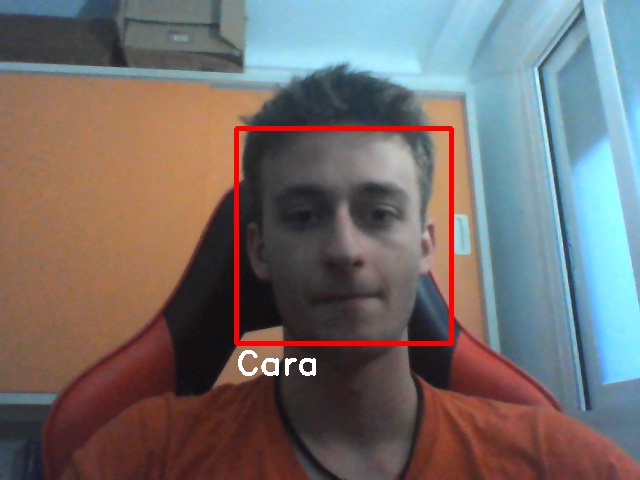
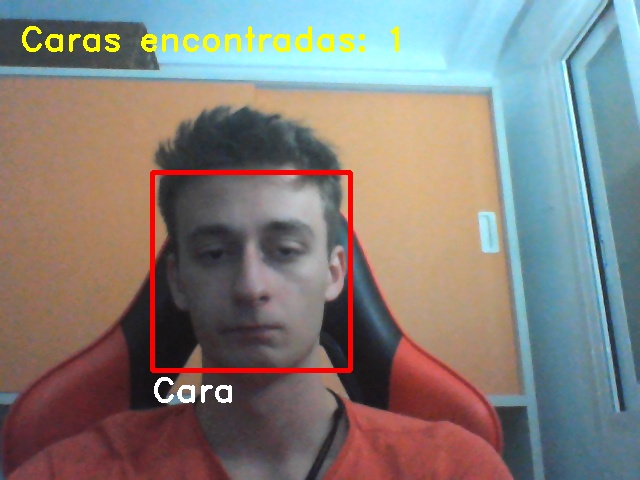
Deteccion de caras sacado

diff --git a/Vision/src/OpenCV/DeteccionCara.java b/Vision/src/OpenCV/DeteccionCara.java
@@ -45,13 +45,14 @@ public class DeteccionCara {
 
 		// Escribir a fichero
 		Rect[] caraArr = caras.toArray();
+		int numeroCaras = 0;
 		for (int i = 0; i < caraArr.length; i++) {
 			// Dibujar
 			Imgproc.rectangle(imagen, caraArr[i], new Scalar(0, 0, 255), 3);
 
 			// Texto al lado del rectangulo
 			String label = "Cara";
-
+			numeroCaras++;
 			// Posicion debajo del rectangulo
 			Point puntoTexto = new Point(caraArr[i].tl().x, caraArr[i].br().y + 30);
 
@@ -59,6 +60,9 @@ public class DeteccionCara {
 			Imgproc.putText(imagen, label, puntoTexto, 2, 1.1, new Scalar(255, 255, 255), 2);
 
 		}
+		String nCaras = "Caras encontradas: " + Integer.toString(numeroCaras);
+		Point puntoTexto = new Point(20, 50);
+		Imgproc.putText(imagen, nCaras, puntoTexto, 2, 1.1, new Scalar(0, 255, 255), 2);
 
 		Imgcodecs.imwrite("detecciones/deteccion.jpg", imagen);
 
@@ -68,6 +72,48 @@ public class DeteccionCara {
 		byte[] datosImagen = buffer.toArray();
 
 		return datosImagen;
+	}
+
+	public static byte[] detecarSoloCara(Mat imagen) {
+		MatOfRect caras = new MatOfRect();
+
+		// Convertir a escala de grises
+		Mat frameGris = new Mat();
+		Imgproc.cvtColor(imagen, frameGris, Imgproc.COLOR_BGR2GRAY);
+
+		// Mejora de contraste para obtener un mejor resultado
+		Imgproc.equalizeHist(frameGris, frameGris);
+
+		int altura = frameGris.height();
+		int tamañoCara = Math.round(altura * 0.2f);
+
+		// Deteccion de caras
+		CascadeClassifier cascadaCara = new CascadeClassifier();
+
+		// Cargar el XML de dataset de caras
+		cascadaCara.load("Datasets/haarcascade_frontalface_alt2.xml");
+		cascadaCara.detectMultiScale(frameGris, caras, 1.1, 2, 0 | Objdetect.CASCADE_SCALE_IMAGE,
+				new Size(tamañoCara, tamañoCara), new Size());
+
+		// Crear una nueva imagen con la posición original de la cara
+		Rect[] caraArr = caras.toArray();
+		final MatOfByte buffer = new MatOfByte();
+
+		for (Rect caraRect : caraArr) {
+			// Crear una nueva imagen para cada cara
+			Mat imagenCara = new Mat(imagen, caraRect);
+
+			// Escribir la nueva imagen a fichero
+			Imgcodecs.imwrite("detecciones/cara_detectada_" + System.currentTimeMillis() + ".jpg", imagenCara);
+
+			// Convertir la nueva imagen a bytes
+			Imgcodecs.imencode(".jpg", imagenCara, buffer);
+
+			// Devolver los datos de la nueva imagen
+
+		}
+
+		return buffer.toArray();
 	}
 
 	public static void main(String[] args) {

diff --git a/Vision/src/OpenCV/Camara.java b/Vision/src/OpenCV/Camara.java
@@ -27,10 +27,10 @@ public class Camara extends JFrame {
 	private static final long serialVersionUID = 1L;
 	// Pantalla de la camara
 	private JLabel pantallaCamara;
-	private JButton btnCapturar, btnExtremos, btnCamara;
+	private JButton btnCapturar, btnExtremos, btnCamara, btnCaras;
 	private VideoCapture capturaVideo;
 	private Mat imagen;
-	private boolean clicked, camara = true;
+	private boolean clicked, camara = true, soloCaras = false;
 
 	public Camara() {
 		// GUI
@@ -41,7 +41,7 @@ public class Camara extends JFrame {
 		add(pantallaCamara);
 
 		btnCapturar = new JButton("Capturar");
-		btnCapturar.setBounds(250, 480, 120, 40);
+		btnCapturar.setBounds(325, 480, 120, 40);
 		add(btnCapturar);
 
 		btnCapturar.addActionListener(new ActionListener() {
@@ -52,25 +52,37 @@ public class Camara extends JFrame {
 		});
 
 		btnExtremos = new JButton("Ver Extremos");
-		btnExtremos.setBounds(100, 480, 120, 40);
+		btnExtremos.setBounds(175, 480, 120, 40);
 		add(btnExtremos);
 
 		btnExtremos.addActionListener(new ActionListener() {
 			@Override
 			public void actionPerformed(ActionEvent e) {
 				camara = false;
+				soloCaras = false;
+			}
+		});
+		btnCaras = new JButton("Ver Caras");
+		btnCaras.setBounds(0, 480, 120, 40);
+		add(btnCaras);
+
+		btnCaras.addActionListener(new ActionListener() {
+			@Override
+			public void actionPerformed(ActionEvent e) {
+				camara = false;
+				soloCaras = true;
 			}
 		});
 
 		btnCamara = new JButton("Ver Cámara");
-		btnCamara.setBounds(400, 480, 120, 40);
+		btnCamara.setBounds(475, 480, 120, 40);
 		add(btnCamara);
 
 		btnCamara.addActionListener(new ActionListener() {
 			@Override
 			public void actionPerformed(ActionEvent e) {
 				camara = true;
-
+				soloCaras = false;
 			}
 		});
 
@@ -106,7 +118,18 @@ public class Camara extends JFrame {
 
 				icono = new ImageIcon(DeteccionCara.detectarYGuardar(imagen));
 
-			} else {
+			} else if(soloCaras){
+				try {
+					ImageIcon ic =
+							new ImageIcon(DeteccionCara.detecarSoloCara(imagen));
+					icono = ic;
+				}catch (Exception e) {
+					
+				}
+					
+				
+
+			}else {
 				icono = new ImageIcon(Extremos.detectarExtremos(imagen));
 
 			}
